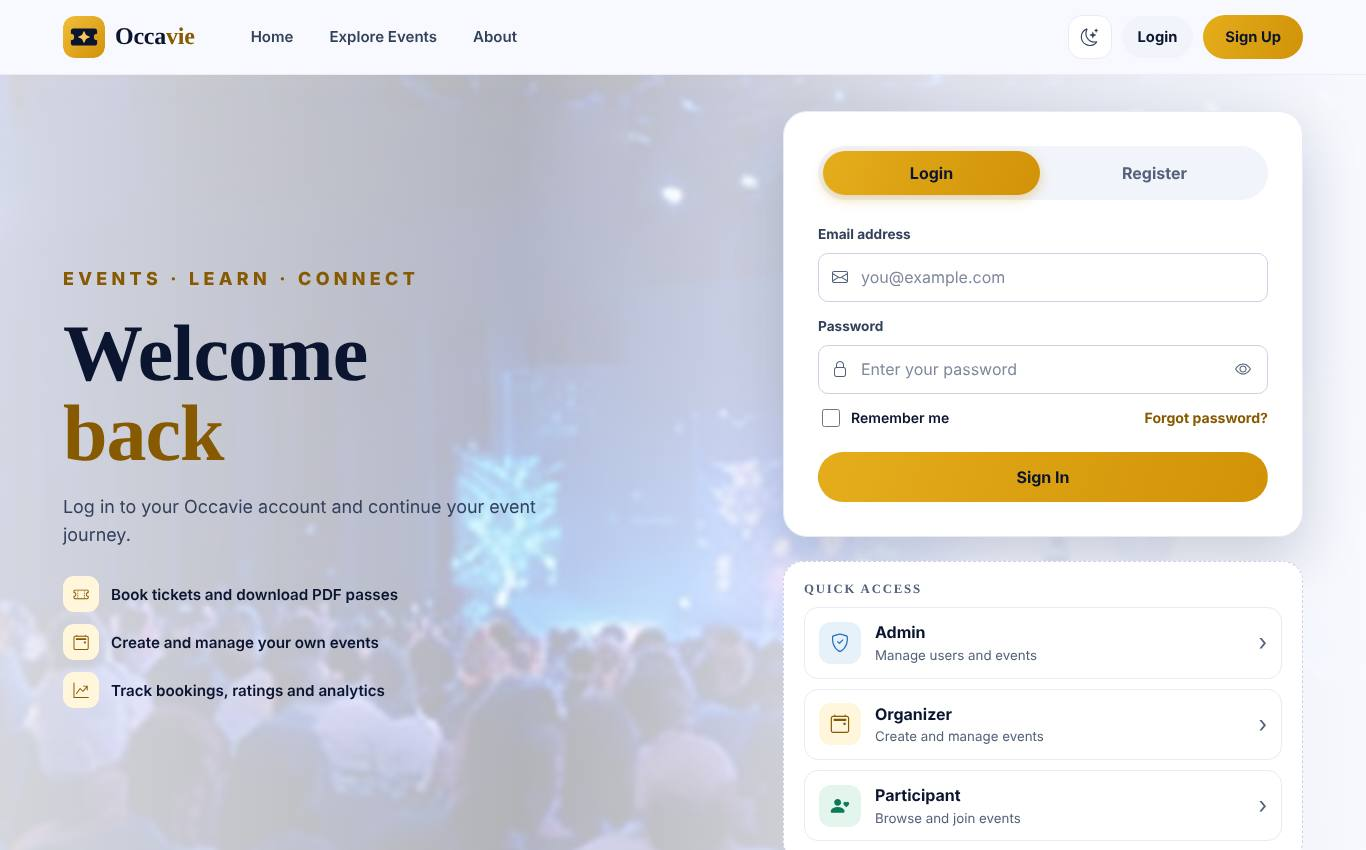
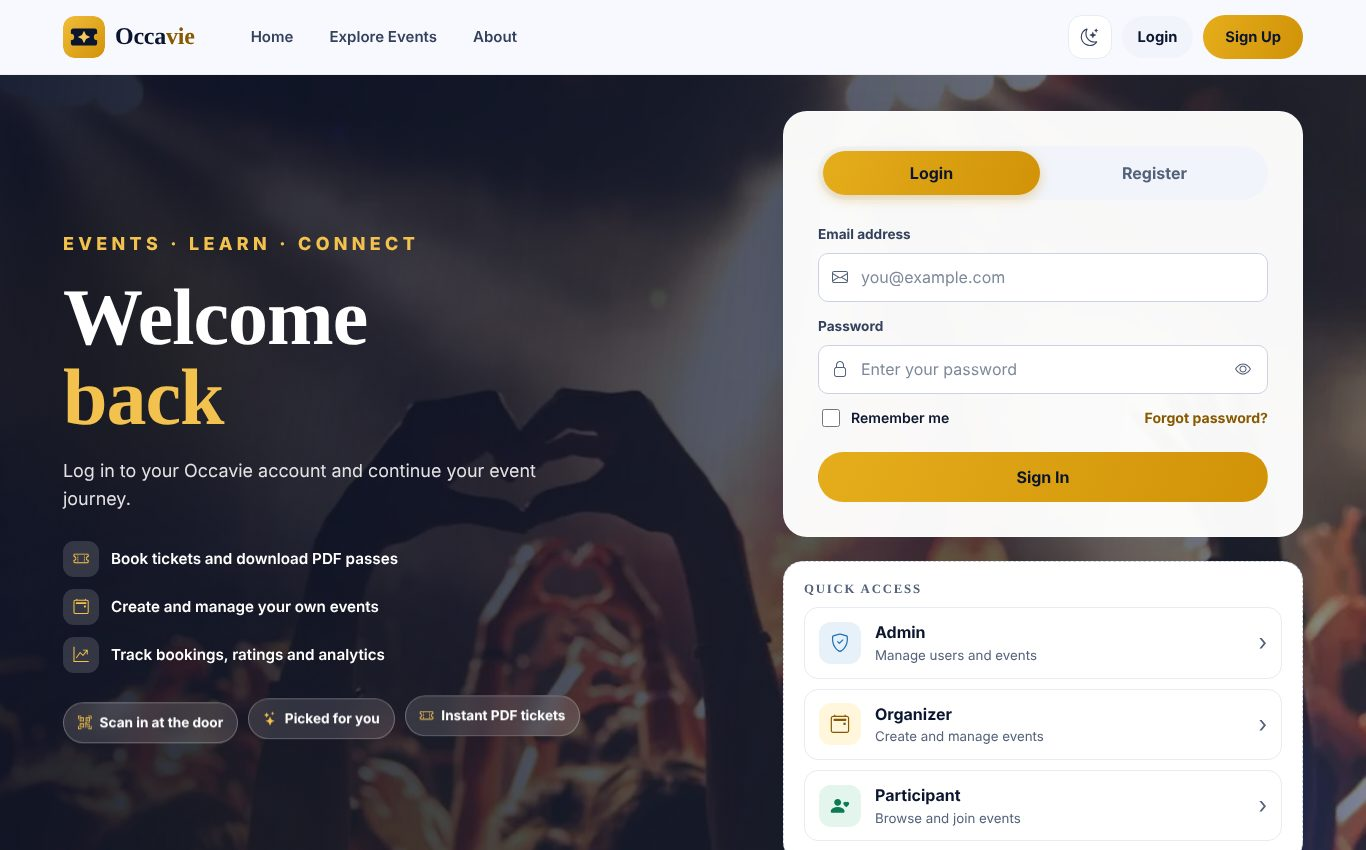
Animate the login page backdrop; plainer README wording
Login now has a crossfading, slowly zooming photo slideshow with soft gold and
blue glows, floating feature chips and a navy overlay for readable text; it
respects reduced-motion. README leads with a plain list of what the website can
do and drops the "formerly" wording.

Claude-Session: https://claude.ai/code/session_0133mjV3fwqNK9PBtkP1vyh6

diff --git a/src/main/resources/static/css/occavie-public.css b/src/main/resources/static/css/occavie-public.css
@@ -714,3 +714,40 @@ body.has-compare-tray .ov-concierge { bottom: 104px; }
   .ov-concierge.is-open .ov-concierge-launch { display: none; }
 }
 @media (prefers-reduced-motion: reduce) { .ov-concierge-launch, .ov-concierge-log { transition: none; scroll-behavior: auto; } }
+
+/* ---- Login: living photo backdrop ---- */
+.ov-auth-scene { background: #0B1530; }
+.ov-auth-scene::before { z-index: 1; background: linear-gradient(100deg, rgba(8,14,36,.92) 0%, rgba(8,14,36,.72) 45%, rgba(8,14,36,.45) 100%), radial-gradient(45% 55% at 12% 90%, rgba(229,173,28,.28), transparent 70%); }
+:root[data-theme="dark"] .ov-auth-scene::before { background: linear-gradient(100deg, rgba(5,9,24,.94) 0%, rgba(5,9,24,.78) 45%, rgba(5,9,24,.55) 100%), radial-gradient(45% 55% at 12% 90%, rgba(229,173,28,.22), transparent 70%); }
+.ov-auth-bg { position: absolute; inset: 0; overflow: hidden; z-index: 0; }
+.ov-auth-bg span { position: absolute; inset: -4%; background-size: cover; background-position: center; opacity: 0; animation: ovSlide 30s infinite, ovZoom 30s infinite; }
+.ov-auth-bg .s1 { background-image: url(/images/event-photos/music-and-cultural-festival.webp); animation-delay: 0s; }
+.ov-auth-bg .s2 { background-image: url(/images/event-photos/startup-pitch-day.webp); animation-delay: 6s; }
+.ov-auth-bg .s3 { background-image: url(/images/event-photos/inter-university-football-tournament.webp); animation-delay: 12s; }
+.ov-auth-bg .s4 { background-image: url(/images/event-photos/women-in-leadership-summit.webp); animation-delay: 18s; }
+.ov-auth-bg .s5 { background-image: url(/images/event-photos/cloud-native-meetup.webp); animation-delay: 24s; }
+@keyframes ovSlide { 0% { opacity: 0; } 4% { opacity: 1; } 20% { opacity: 1; } 26% { opacity: 0; } 100% { opacity: 0; } }
+@keyframes ovZoom { 0% { transform: scale(1); } 26% { transform: scale(1.09) translate(-1%, -1%); } 100% { transform: scale(1.09); } }
+.ov-auth-bg .orb { position: absolute; border-radius: 50%; filter: blur(60px); opacity: .5; animation: ovDrift 14s ease-in-out infinite alternate; }
+.ov-auth-bg .o1 { width: 340px; height: 340px; left: -80px; top: 10%; background: #E5AD1C; }
+.ov-auth-bg .o2 { width: 300px; height: 300px; right: 5%; bottom: -80px; background: #3B5BDB; animation-delay: -6s; }
+@keyframes ovDrift { to { transform: translate(60px, -40px) scale(1.15); } }
+.ov-auth-main { z-index: 2; }
+.ov-auth-hero { color: #fff; }
+.ov-auth-hero h1 { color: #fff; }
+.ov-auth-hero h1 em { color: #F2C14E; background: none; }
+.ov-auth-hero p { color: rgba(255,255,255,.88); }
+.ov-auth-hero .ov-eyebrow { color: #F2C14E; }
+.ov-auth-points li { color: #fff; }
+.ov-auth-points i { background: rgba(255,255,255,.14); color: #F2C14E; backdrop-filter: blur(6px); }
+.ov-auth-floats { display: flex; flex-wrap: wrap; gap: 10px; margin-top: 10px; }
+.ov-auth-floats span { display: inline-flex; gap: 8px; align-items: center; padding: 9px 14px; border-radius: 999px; font-size: .85rem; font-weight: 700; color: #fff; background: rgba(255,255,255,.12); border: 1px solid rgba(255,255,255,.28); backdrop-filter: blur(10px); animation: ovFloat 5s ease-in-out infinite alternate; }
+.ov-auth-floats i { color: #F2C14E; }
+.ov-auth-floats .f2 { animation-delay: -1.7s; } .ov-auth-floats .f3 { animation-delay: -3.2s; }
+@keyframes ovFloat { to { transform: translateY(-8px); } }
+.ov-auth-panel { background: rgba(255,255,255,.97); border-color: rgba(255,255,255,.5); }
+:root[data-theme="dark"] .ov-auth-panel { background: rgba(14,22,48,.94); }
+@media (prefers-reduced-motion: reduce) {
+  .ov-auth-bg span, .ov-auth-bg .orb, .ov-auth-floats span { animation: none; }
+  .ov-auth-bg .s1 { opacity: 1; transform: none; }
+}

diff --git a/src/main/resources/templates/auth.html b/src/main/resources/templates/auth.html
@@ -1,6 +1,10 @@
 <!DOCTYPE html><html lang="en" xmlns:th="http://www.thymeleaf.org"><head th:replace="~{fragments :: head('Log in or Sign up', 'public')}"></head><body class="ov-page ov-auth-page" th:classappend="${activeTab == 'register'} ? ' ov-register-open' : ''" th:attr="data-forgot-open=${forgotOpen},data-forgot-step=${forgotStep},data-forgot-email=${forgotEmail},data-forgot-error=${forgotError}">
 <div th:replace="~{fragments :: siteNav('auth')}"></div>
 <main class="ov-auth-scene">
+  <div class="ov-auth-bg" aria-hidden="true">
+    <span class="s1"></span><span class="s2"></span><span class="s3"></span><span class="s4"></span><span class="s5"></span>
+    <i class="orb o1"></i><i class="orb o2"></i>
+  </div>
   <div class="ov-auth-main ov-container" th:classappend="${!demoAccessAvailable} ? ' no-demo' : ''">
     <section class="ov-auth-hero" aria-label="Welcome to Occavie">
       <a class="brand" th:href="@{/}" href="/" aria-label="Occavie home"><img class="brand-mark" th:src="@{/images/occavie-mark.svg}" src="/images/occavie-mark.svg" alt="" width="44" height="44"><span class="brand-word">Occa<em>vie</em></span></a>
@@ -12,6 +16,11 @@
         <li><i class="bi bi-calendar2-event"></i> Create and manage your own events</li>
         <li><i class="bi bi-graph-up-arrow"></i> Track bookings, ratings and analytics</li>
       </ul>
+      <div class="ov-auth-floats" aria-hidden="true">
+        <span class="f1"><i class="bi bi-qr-code-scan"></i> Scan in at the door</span>
+        <span class="f2"><i class="bi bi-stars"></i> Picked for you</span>
+        <span class="f3"><i class="bi bi-ticket-perforated"></i> Instant PDF tickets</span>
+      </div>
     </section>
     <section class="ov-auth-panel" aria-label="Login and registration">
       <div class="ov-auth-tabs" role="tablist" aria-label="Account access">

diff --git a/README.md b/README.md
@@ -2,7 +2,7 @@
 
 > **Make every moment count.**
 
-Occavie (formerly EventFlow) is a full-stack event platform. People discover events and book tickets, organizers plan and run events, and administrators oversee the whole site. It is a Spring Boot + Thymeleaf + MongoDB application with three role-based workspaces (Admin, Organizer, Participant) and a set of rule-based "smart" features (search, recommendations, comparison, an organizer Copilot and a visitor Concierge) that need **no AI service, no API keys and no extra configuration**.
+Occavie is a full-stack event platform. People discover events and book tickets, organizers plan and run events, and administrators oversee the whole site. It is a Spring Boot + Thymeleaf + MongoDB application with three role-based workspaces (Admin, Organizer, Participant) and a set of rule-based "smart" features (search, recommendations, comparison, an organizer Copilot and a visitor Concierge) that need **no AI service, no API keys and no extra configuration**.
 
 Developed by **Md. Zubayer Ahmad Shibly**.
 
@@ -28,7 +28,23 @@ Developed by **Md. Zubayer Ahmad Shibly**.
 
 > Screenshots come from a local run with sample data.
 
-## What it does
+## What the website can do
+
+In one list:
+
+* **Find events**: search in plain sentences, filter by topic, price, date and place, sort, and save favourites.
+* **Get answers**: ask the on-site Concierge about seats, prices, venues and tickets.
+* **Get ideas**: personal recommendations with a 💡 reason on every card.
+* **Compare**: put 2 or 3 events side by side.
+* **Book**: free or paid tickets, coupons, waitlist, instant PDF tickets and receipts with QR codes.
+* **Attend**: add to calendar, share, get reminders and announcements, rate events afterwards.
+* **Organize**: create events with a guided wizard, schedules, speakers, sponsors, galleries, ticket types and coupons, and get a Copilot readiness score with next steps.
+* **Run the door**: scan QR tickets or enter codes for fast, single-use check-in.
+* **Measure**: analytics, attendance rates and CSV exports.
+* **Administer**: manage users, events, approvals, reviews and support messages.
+* **Everywhere**: phone, tablet and desktop layouts, light and dark mode, accessible and secure by default.
+
+The details follow.
 
 ### Smart features (rule-based, offline, no configuration)
 
@@ -78,7 +94,7 @@ How they stay honest: recommendations never suggest booked, saved, sold-out, pas
 
 | Area | What changed |
 |---|---|
-| Identity and design | Rebrand from EventFlow to Occavie, new design system, navy-and-gold theme with serif headings, new logo and icons, photo hero, per-topic coloured category tiles |
+| Identity and design | Complete visual identity, new design system, navy-and-gold theme with serif headings, new logo and icons, photo hero, per-topic coloured category tiles |
 | Booking | Event pages, checkout, PDF tickets and receipts, demo-payment labelling, coupons |
 | Dashboards | Participant, organizer and admin dashboards with photo event cards and analytics |
 | Check-in | Signed QR tickets, camera/manual check-in, duplicate-scan protection |
@@ -207,6 +223,6 @@ See [DEPLOYMENT.md](DEPLOYMENT.md). Render (Docker) is the recommended host; Ver
 
 Developer: Md. Zubayer Ahmad Shibly. Photos: Unsplash contributors (Unsplash License). Icons: Bootstrap Icons. Charts: Chart.js. QR codes: ZXing.
 
-## Project history
+## Technical notes
 
-Rebranded from EventFlow. The Java package (`com.eventflow`), the MongoDB database and collection names, URLs and the three demo email addresses are unchanged for compatibility.
+For compatibility the Java package is `com.eventflow`, the MongoDB database and collection names keep their original names, and the three demo accounts use `@eventflow.com` addresses. These are internal names only; the site everywhere else is Occavie.
